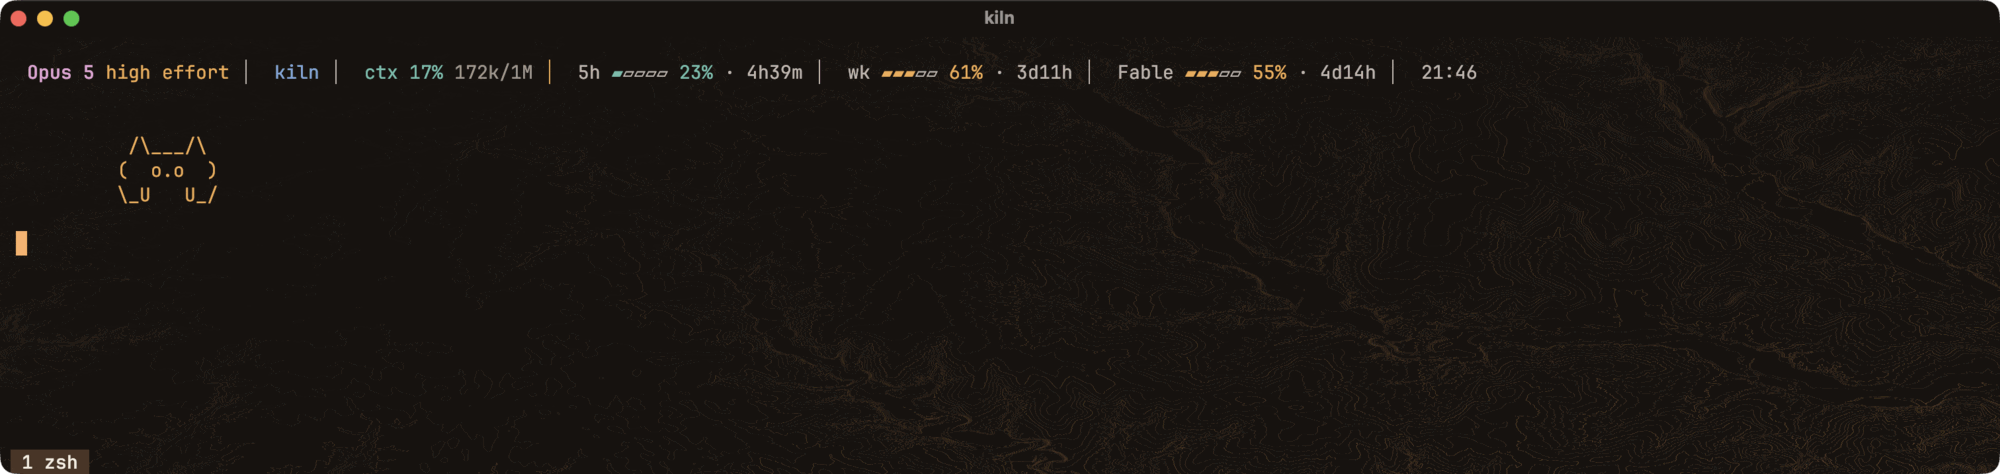
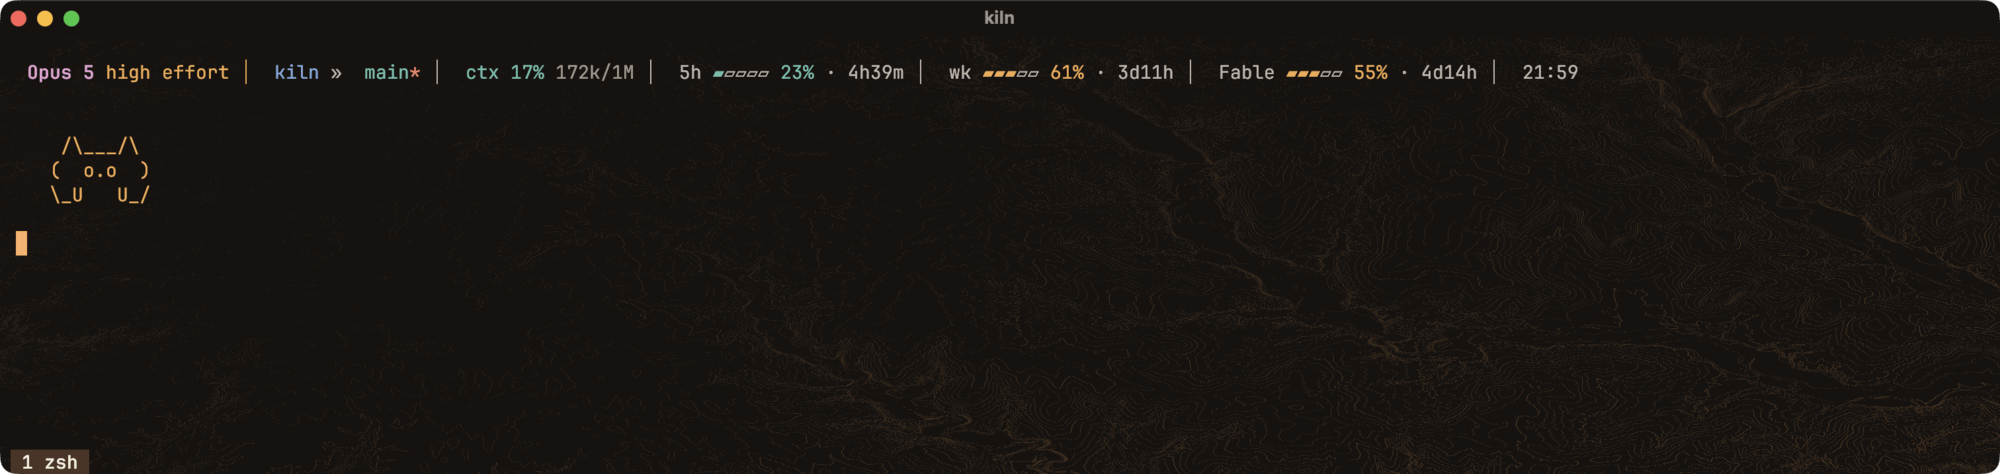
docs: redact account telemetry, desynthesize the statusline shot, fix a dead reference
Three things that should not have shipped in the first commit.

The agent definitions carried raw account usage totals (16 day tool call and
cache read volumes). That is personal telemetry, not operating guidance, and
the per-call figure beside it already carries the whole argument. Cut from
minion.md and sherlock.md in both the live config and the repo, so the mirror
stays exact. No behaviour depends on the totals.

06-statusline.png showed synthetic 5h and weekly gauges next to a REAL Fable
gauge read from the live cache, which made the frame half invented and half
account data with no way for a reader to tell. It is now rendered against a
sandboxed $HOME, so every gauge is synthetic and nothing writes to the live
cat position cache either. Said so in the README rather than leaving the
reader to assume.

kitty-palcheck.py's docstring still sent readers to ghostty-palcheck.py for
the colour math. That file was deleted 2026-07-30; the math is in palmath.py,
which the note further down the same file already says. Fixed live and in repo.

Verified: palcheck still exits 0 on kiln.conf, check-sync.sh reports 33 files
0 drifted after all four edits, and the re-shot statusline was inspected as a
rendered image, not assumed.

Changed region(s): [[0.155, 0.1181, 0.806, 0.1772], [0.031, 0.2954, 0.124, 0.443]]

diff --git a/claude/scripts/kitty-palcheck.py b/claude/scripts/kitty-palcheck.py
@@ -3,8 +3,8 @@
 
 Parses kitty config syntax (`color1 #RRGGBB`, `background #RRGGBB`, ...).
 All colour math (WCAG 2.1, APCA 0.98G-4g, CIEDE2000, Machado CVD) is imported
-from ghostty-palcheck.py in this directory so there is exactly one
-implementation of the formulas. Only the parser and the gates live here.
+from palmath.py in this directory so there is exactly one implementation of
+the formulas. Only the parser and the gates live here.
 
 Gates (dark theme):
   foreground vs background      >= 4.5:1 WCAG (target 7+), APCA |Lc| >= 90

diff --git a/claude/agents/sherlock.md b/claude/agents/sherlock.md
@@ -44,10 +44,9 @@ here exhausted it at 200/200 and starved the sibling agents.
 
 ## Cost discipline — batch calls, do not ration thinking
 
-Measured over 16 days here: 24,603 tool calls, 10.98 **billion** cache-read
-tokens, 34.7 million output tokens. Cache reads are ~99% of volume, and the
-average call re-reads **446,000 tokens of context**. Output size is a
-rounding error. The expensive thing is **how many times you call a tool**,
+Measured here: cache reads are ~99% of token volume, and the average tool
+call re-reads **446,000 tokens of context**. Output size is a rounding
+error. The expensive thing is **how many times you call a tool**,
 not how much any call returns.
 
 1. **Batch independent calls into one message.** Three tool calls in one turn

diff --git a/claude/agents/minion.md b/claude/agents/minion.md
@@ -48,9 +48,8 @@ shared budget and buries results.
 
 ## Cost discipline — batch calls, do not ration thinking
 
-Measured over 16 days here: 24,603 tool calls, 10.98 **billion** cache-read
-tokens, 34.7 million output tokens. Cache reads are ~99% of volume, and the
-average call re-reads **446,000 tokens of context**. Output size is a rounding
+Measured here: cache reads are ~99% of token volume, and the average tool
+call re-reads **446,000 tokens of context**. Output size is a rounding
 error.
 
 That means the expensive thing is **how many times you call a tool**, not how

diff --git a/README.md b/README.md
@@ -119,7 +119,9 @@ the binding was supposed to provide.
 limit gauges, and the cat](docs/media/06-statusline.png)
 
 One row of instruments and a four row stage under them. Everything on the
-instrument row is read from the payload Claude Code sends on stdin:
+instrument row is read from the payload Claude Code sends on stdin. (The
+figures in that screenshot are synthetic — it was rendered against a sandboxed
+`$HOME`, so none of the gauges are real account usage.)
 
 | Field | Source |
 | --- | --- |
